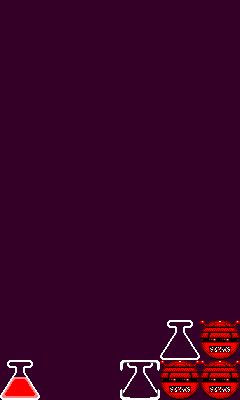
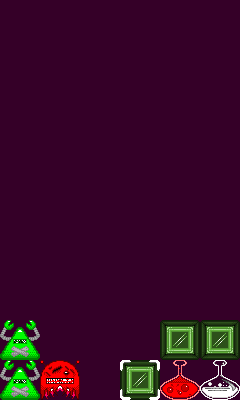
save screenshot button in level editor

Changed region(s): [[0.4958, 0.78, 1.0, 1.0], [0.0, 0.78, 0.35, 1.0]]

diff --git a/engine.html b/engine.html
@@ -233,7 +233,6 @@ $def with (name)
           level_data.levels[player_level][player_stage-1].split('\n')[9]
       var beat_marathon_time = false
       var beat_marathon_score = false
-      var drew_puzzle_screen = false
 
       // undo states
       var player_undid = false
@@ -579,13 +578,15 @@ $def with (name)
           level_edit_menu_items.push(new MenuItem(level_edit_menu,"Save As",function() {
             player.level_save_as()
           }))
-          // level_edit_menu_items.push(new MenuItem(level_edit_menu,"Publish",function() {
-          //   console.log("Publish")
-          //   if (player_level > 0)
-          //     player.level_save()
-          //   else
-          //     player.level_publish()
-          // }))          
+          level_edit_menu_items.push(new MenuItem(level_edit_menu,"Screenshot",function() {
+            var gamescreen_canvas = $("gameScreen")
+            var puzzleScreen_canvas = $("puzzleScreen")
+            puzzleScreen.getContext("2d").drawImage(gamescreen_canvas,40,40,240,400,0,0,240,400)
+            // save as jpg
+            var data_url = puzzleScreen_canvas.toDataURL( "image/png" , 1 )
+            saveImage(player_level,player_stage,level_name,data_url.substring(data_url.indexOf(",")+1,data_url.length))
+            window.alert("screenshot saved for " + player_level + "-" + player_stage)
+          }))
           level_edit_menu_items.push(new MenuItem(level_edit_menu,"Delete",function() {
             player.level_delete()
           }))
@@ -934,24 +935,6 @@ $def with (name)
             star_sprites[s].draw()
           }
         });
-
-        // display board on puzzleScreen
-        if (!drew_puzzle_screen && level_edit) {
-          var gamescreen_canvas = $("gameScreen")
-          var puzzleScreen_canvas = $("puzzleScreen")
-          puzzleScreen.getContext("2d").drawImage(gamescreen_canvas,40,40,240,400,0,0,240,400)
-
-          // save as jpg
-          var data_url = puzzleScreen_canvas.toDataURL( "image/png" , 1 )
-
-          // window.prompt("encoded data",data_url.substring(data_url.indexOf(",")+1,data_url.length))
-
-          saveImage(player_level,player_stage,level_name,data_url.substring(data_url.indexOf(",")+1,data_url.length))
-
-          // window.open(data_url, '_blank')
-
-          drew_puzzle_screen = true          
-        }
 
         if (continue_lock_box.active)
           continue_lock_box.draw()
